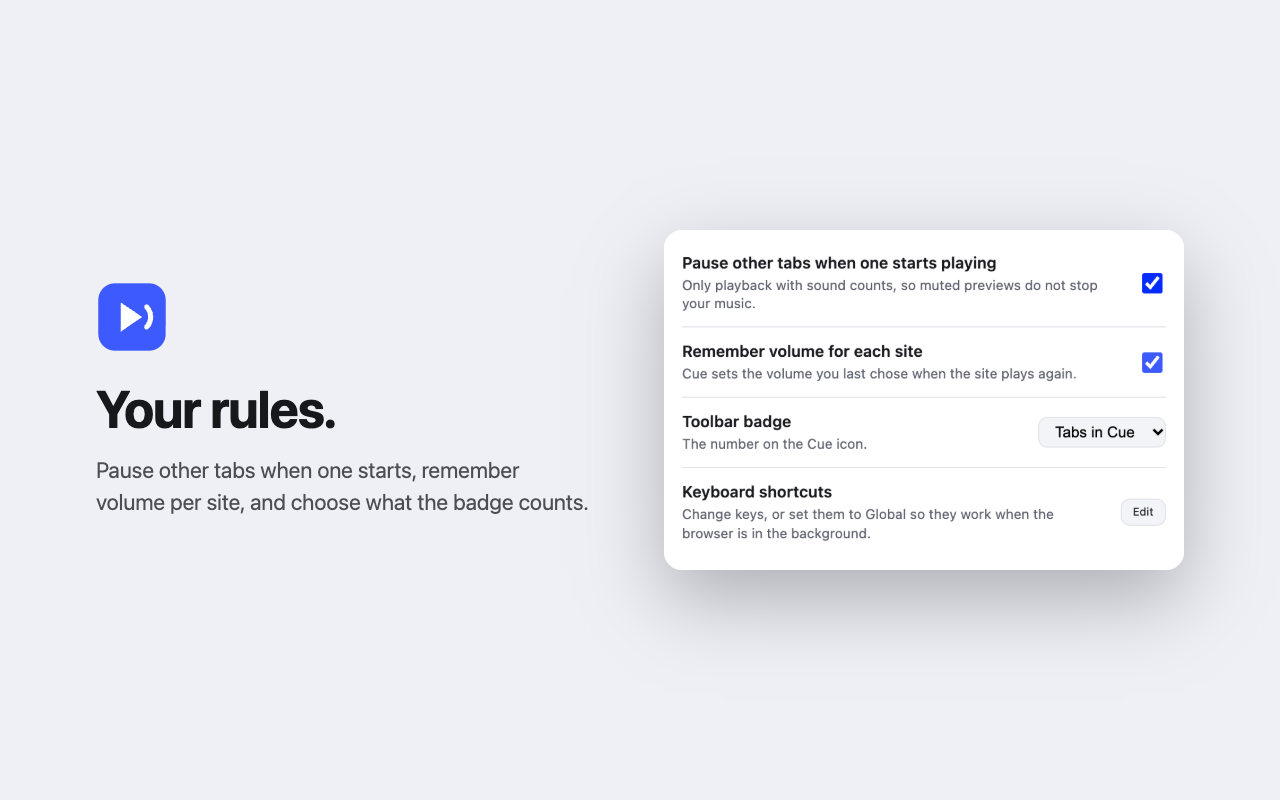
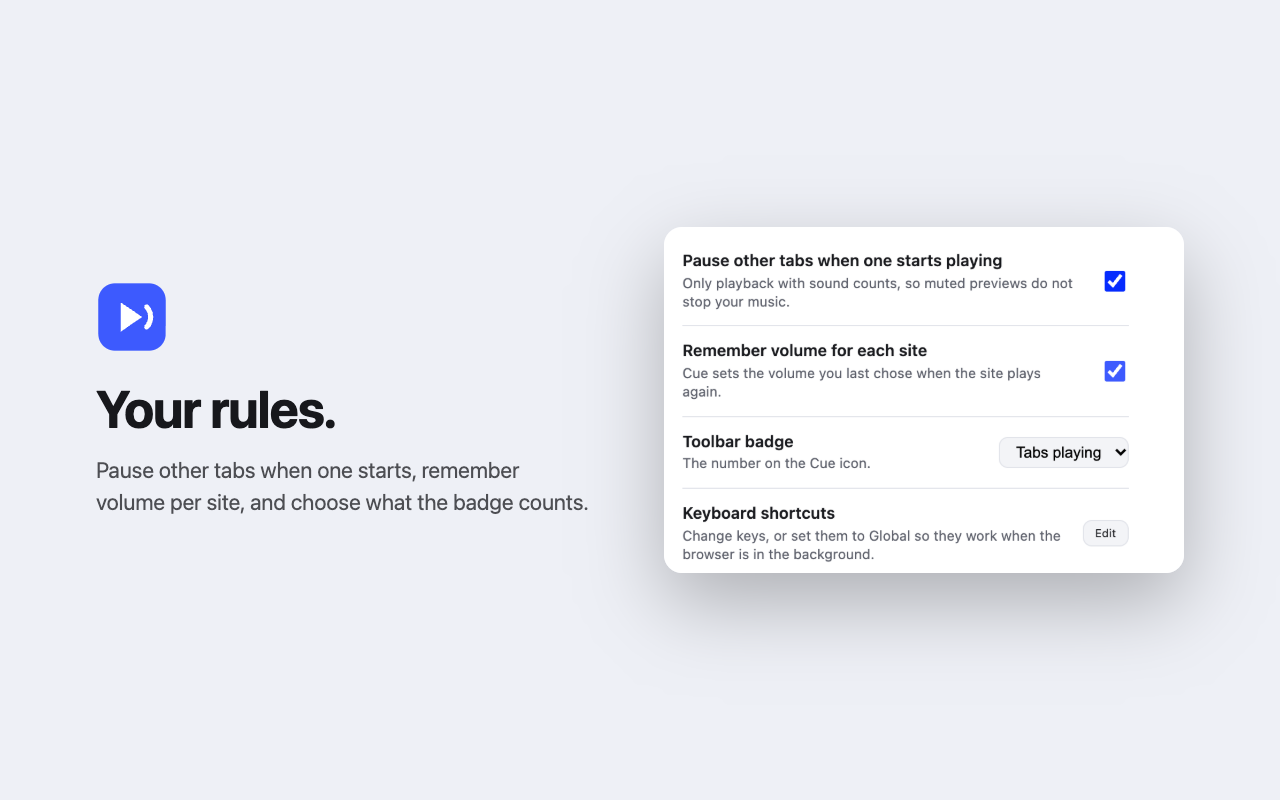
List only media that plays with sound; badge counts playing tabs (0.6.0)
Cards
- Like Chrome's media controls, a tab gets a card only after it plays
  sound: not muted, volume above 0, with an audio track, at least 5 s
  long. Muted background videos (ef.edu), silent canvas streams used by
  timers (focus.toggl.com) and notification sounds get no card
- Once heard, a tab keeps its card when muted or paused
- A muted element cannot take the card from the player you listen to
- A new document asks the tab to report; the card is removed if nothing
  answers within 1.5 s. In-page navigations (pushState) keep the card

Settings
- The badge counts tabs playing by default
- The options page has a fixed width and no scrollbars of its own, which
  stops a scrollbar loop in the options dialog where scrollbars take space

Tests: muted media, short sounds, streams without audio, pushState, badge

Changed region(s): [[0.5312, 0.2812, 0.9062, 0.7188], [0.7812, 0.5312, 0.9062, 0.5938], [0.875, 0.625, 0.9062, 0.6562]]

diff --git a/extension/page.js b/extension/page.js
@@ -6,7 +6,7 @@
 // carry JSON strings. Strings cross the world boundary intact; objects do not.
 (() => {
   // Keep equal to manifest.json "version"; npm test checks it.
-  const VERSION = "0.5.0";
+  const VERSION = "0.6.0";
   const INSTALLED = Symbol.for("cue.installed");
   if (window[INSTALLED] === VERSION) return; // already running in this frame
   // An older copy is still here after an extension update. Tell it to stop
@@ -343,6 +343,27 @@
 
   let current = null; // the element the last snapshot reported
 
+  // Chrome's own media controls list a tab only after it plays with sound:
+  // not muted, volume above 0, with an audio track, and at least 5 s long
+  // (shorter clips are notification sounds). Cue does the same, so a muted
+  // background video or a click sound gets no card. Once a tab has been heard
+  // it keeps its card, also when the user mutes it or pauses it.
+  let heard = false;
+  const silent = (el) => el.muted || el.volume === 0;
+  const audible = (el) => {
+    if (el.paused || el.ended || silent(el) || !(el.duration >= 5)) return false;
+    // A stream (a canvas drawn into a video, as timers do for a floating
+    // picture-in-picture window) has sound only if it carries an audio track.
+    if (el.srcObject) return typeof el.srcObject.getAudioTracks !== "function" || el.srcObject.getAudioTracks().length > 0;
+    // A video file without an audio track decodes no audio bytes (Chrome
+    // only). Checked again on timeupdate, so a track that starts late
+    // still counts.
+    if (typeof el.webkitAudioDecodedByteCount === "number" && el instanceof HTMLVideoElement) {
+      return el.webkitAudioDecodedByteCount > 0;
+    }
+    return true;
+  };
+
   const primary = () => {
     let best = null;
     let bestScore = -1;
@@ -361,6 +382,10 @@
         continue;
       }
       if (el.paused && el.readyState === 0) continue; // nothing loaded yet
+      if (audible(el)) heard = true;
+      // A muted element plays beside the one you listen to (a background
+      // video next to a player): it cannot be the card's element.
+      if (silent(el) && el !== current) continue;
       // A detached paused element never outranks media that is in the page.
       const s = score(el) - (detachedPaused ? 6 : 0);
       if (s > bestScore) {
@@ -402,7 +427,7 @@
     // A call page may have no media element the panel can use, but its
     // mic, camera and hang-up handlers are still worth showing.
     const inCall = CALL_ACTIONS.some((a) => handlers.has(a));
-    if (!found && !inCall) return null;
+    if (!inCall && (!found || !heard)) return null;
     const el = found ? found.el : null;
     current = el;
     const md = navigator.mediaSession && navigator.mediaSession.metadata;

diff --git a/extension/background.js b/extension/background.js
@@ -158,6 +158,7 @@ async function handleState(sender, raw) {
   const tab = sender.tab;
   const frameId = sender.frameId ?? 0;
   if (removedTabs.has(tab.id)) return;
+  reportAsked.delete(tab.id);
   const state = sanitize(raw);
   if (state) {
     state.host = senderHost(sender);
@@ -241,11 +242,30 @@ function onAudibleUnknown(tabId) {
   return chrome.tabs.sendMessage(tabId, { type: "command", action: "scan" }).catch(() => {});
 }
 
+// A new document (a reload or a navigation) stays silent until it plays with
+// sound, so it cannot replace the old page's card itself. The old page's
+// pagehide usually removes the card; this covers a lost message. Chrome also
+// reports "loading" for in-page navigations (YouTube's next video), so ask the
+// tab first: a page that is still there answers with its state at once.
+const reportAsked = new Map(); // tabId -> time of the last "report" request
+function checkAfterLoading(tabId) {
+  const asked = Date.now();
+  reportAsked.set(tabId, asked);
+  chrome.tabs.sendMessage(tabId, { type: "command", action: "report" }).catch(() => {});
+  setTimeout(async () => {
+    if (reportAsked.get(tabId) !== asked) return; // a frame answered
+    reportAsked.delete(tabId);
+    await loaded;
+    if (tabs.delete(tabId)) save();
+  }, 1500);
+}
+
 chrome.tabs.onUpdated.addListener(async (tabId, change, tab) => {
   await loaded;
   const entry = tabs.get(tabId);
   if (!entry && change.audible === true) return onAudibleUnknown(tabId);
   if (!entry) return;
+  if (change.status === "loading") return checkAfterLoading(tabId);
   if (change.discarded) {
     tabs.delete(tabId);
   } else if ("mutedInfo" in change || "title" in change || "favIconUrl" in change) {

diff --git a/extension/options.css b/extension/options.css
@@ -1,5 +1,15 @@
+/* The browser sizes the options dialog to this page's content, in width and
+   height. Where scrollbars take up space (Windows, or macOS with "always show
+   scrollbars"), a scrollbar made the content wider than the dialog, which
+   added the other scrollbar, which changed the size again, in a loop. So the
+   page never shows scrollbars (the dialog around it scrolls if it must) and
+   has a fixed width, so its size does not depend on the dialog's. */
+html {
+  overflow: hidden;
+}
+
 body {
-  min-width: 420px;
+  width: 420px;
   padding: 8px 16px;
   background: var(--card);
 }

diff --git a/extension/options.html b/extension/options.html
@@ -28,8 +28,8 @@
           <small>The number on the Cue icon.</small>
         </span>
         <select name="badge">
-          <option value="listed">Tabs in Cue</option>
           <option value="playing">Tabs playing</option>
+          <option value="listed">Tabs in Cue</option>
           <option value="off">Off</option>
         </select>
       </label>

diff --git a/extension/settings.js b/extension/settings.js
@@ -2,7 +2,7 @@
 const CUE_DEFAULTS = {
   autoPause: false, // pause other tabs when one starts playing with sound
   rememberVolume: true, // reapply the last volume set for a site
-  badge: "listed", // "listed" | "playing" | "off"
+  badge: "playing", // "listed" | "playing" | "off"
 };
 
 async function cueSettings() {

diff --git a/README.md b/README.md
@@ -4,7 +4,7 @@ Media controls for every tab. Cue lists every tab that plays audio or video, and
 
 ## Features
 
-- **Every tab, one list.** Title, artist, artwork, and site for each tab that plays media. Playing tabs come first. When a site does not publish what is playing, Cue reads it from the page: the post title and subreddit on Reddit, or the article heading on other sites, with the video's thumbnail as artwork.
+- **Every tab, one list.** Title, artist, artwork, and site for each tab that plays media. Like Chrome's own media controls, Cue lists a tab only after it plays sound from media at least 5 seconds long, so muted background videos and notification sounds get no card. Playing tabs come first. When a site does not publish what is playing, Cue reads it from the page: the post title and subreddit on Reddit, or the article heading on other sites, with the video's thumbnail as artwork.
 - **Real next and previous.** Cue calls the site's own track handlers (the Media Session API), the same ones that your keyboard media keys use. This works on any site that supports media keys, with no per-site code. When a site has no track handlers, the buttons skip 10 seconds.
 - **Seek bar and clock.** Drag to seek. The clock stops while the player buffers, and Cue corrects it if it drifts from the page. When a site publishes chapters, the seek bar marks them and the card names the current chapter.
 - **Live streams.** The card shows `LIVE` at the live edge. When you pause or fall behind, it shows how far behind you are (for example `LIVE −0:42`) and a **Go live** button.
@@ -52,7 +52,7 @@ To change a shortcut, or to make it work when the browser is not focused, open `
 
 ### Settings
 
-Click the sliders icon in the Cue header, or open Cue's **Extension options**. You can turn on auto-pause, turn off volume memory, and choose what the toolbar badge counts: tabs in Cue, tabs playing, or nothing.
+Click the sliders icon in the Cue header, or open Cue's **Extension options**. You can turn on auto-pause, turn off volume memory, and choose what the toolbar badge counts: tabs playing (the default), tabs in Cue, or nothing.
 
 ## How it works
 
